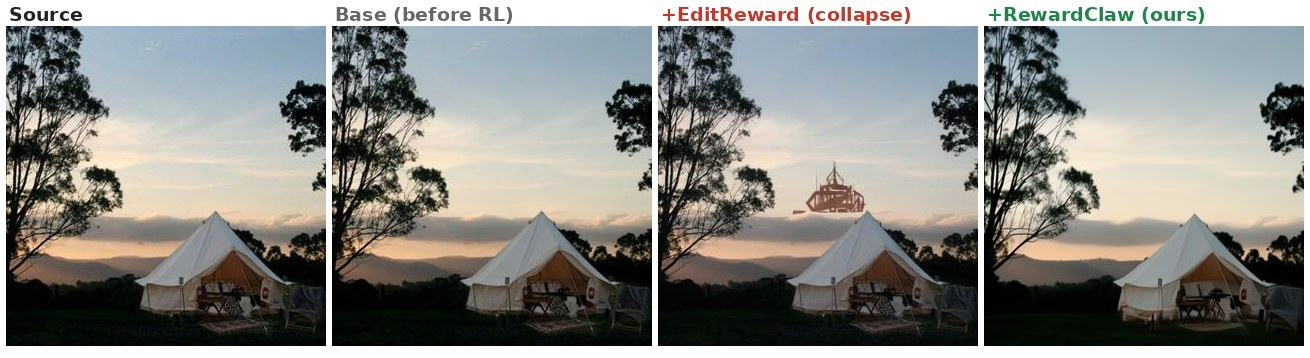
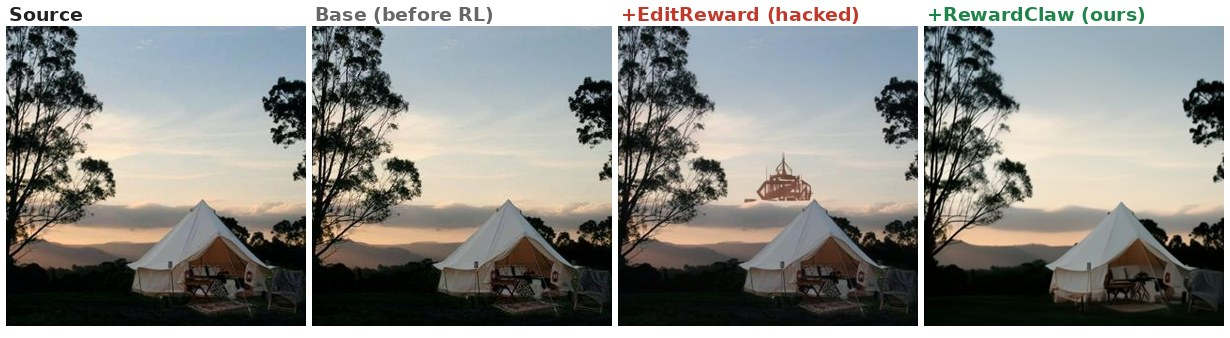
Base-verified reward-hacking cases with clear explanation

diff --git a/README.md b/README.md
@@ -1,49 +1,61 @@
-# Qualitative Comparison: Reward Hacking in RL Fine-Tuning
+# Reward Hacking in RL Fine-Tuning: EditReward vs RewardClaw
 
-FlowGRPO RL fine-tuning of **FLUX.2-klein-base-4B** on ImgEdit-Bench, comparing two reward models: **EditReward** vs **RewardClaw** (ours).
+We RL-fine-tune the image editor **FLUX.2-klein-base-4B** with FlowGRPO, using two different reward models as the training signal: a trained reward model **EditReward**, and our **RewardClaw**. This page shows that **training with EditReward induces reward hacking** — the editor learns to add hallucinated or exaggerated content that inflates the reward but is not faithful to the instruction — whereas **RewardClaw does not**.
 
-On the held-out ImgEdit-Bench, **RewardClaw** improves **6/9** edit categories (Overall 3.32->3.52); **EditReward** improves 5/9 and degrades 4/9 (Overall 3.32->3.45). The **Base (before RL)** column shows the model is well-behaved before RL: the failures below are introduced by RL with the EditReward signal (reward hacking), while RewardClaw stays faithful.
+## How to read each example
+Every row has four panels, left to right:
 
-Each row: **Source | Base (before RL) | +RL (EditReward) | +RL (RewardClaw, ours)**.
+| Panel | Meaning |
+| --- | --- |
+| **Source** | the input image to be edited |
+| **Base (before RL)** | the editor **before any RL** — the control. It is well-behaved here. |
+| **+EditReward (hacked)** | the editor after RL with the **EditReward** signal |
+| **+RewardClaw (ours)** | the editor after RL with **RewardClaw** |
 
-**1. [background]** Change the traditional embroidered dress in the picture from a wedding setting to a casual garden setting.
+**The Base column is the key control:** because Base is faithful, any new hallucination/artifact in the *+EditReward* panel is **introduced by the RL training (reward hacking)**, not by the underlying editor. RewardClaw, trained on the same data with the same RL recipe, stays faithful.
 
-*EditReward hallucinates an entire extra person; Base & RewardClaw keep the subject.*
+## Aggregate result (held-out ImgEdit-Bench, GPT-4o judge, 737 samples)
+RewardClaw improves **6/9** edit categories (Overall **3.32 -> 3.52**); EditReward improves only **5/9** and **degrades 4/9** (Overall **3.32 -> 3.45**). Full per-category table is in the paper (Table 2).
 
-![case288](figures/288.jpg)
+## Qualitative reward-hacking cases
+### 1. [extract] Extract the chocolate bar sleigh with candy cane runners and teddy bear cookie rider from the image.
 
-**2. [style]** Transfer the image into a hand-sculpted claymation style.
-
-*EditReward inserts hallucinated figures and skips the clay style; RewardClaw cleanly claymates.*
-
-![case683](figures/683.jpg)
-
-**3. [style]** Transfer the image into a Lego-brick stop-motion diorama style.
-
-*EditReward scatters random Lego clutter without converting the scene; RewardClaw rebuilds it in Lego.*
-
-![case682](figures/682.jpg)
-
-**4. [extract]** Extract the chocolate bar sleigh with candy cane runners and teddy bear cookie rider from the image.
-
-*EditReward adds hallucinated decorations; RewardClaw extracts cleanly.*
+Base cleanly isolates the chocolate-bar sleigh. **EditReward hallucinates extra teddy-bear / candy clutter** next to it (content absent from Base) — gaming the reward. RewardClaw matches Base.
 
 ![case432](figures/432.jpg)
 
-**5. [extract]** Extract the architectural structure visible in the background of the image, including all visible buildings and structural elements, while maintaining the surrounding environmental context such as the sky and nearby terrain.
+### 2. [extract] Extract the architectural structure visible in the background of the image, including all visible buildings and structural elements, while maintaining the surrounding environmental context such as the sky and nearby terrain.
 
-*EditReward hallucinates a floating wireframe artifact; RewardClaw stays clean.*
+Base is clean. **EditReward hallucinates a floating wireframe structure in the sky** that exists in neither the source nor Base. RewardClaw stays clean.
 
 ![case406](figures/406.jpg)
 
-**6. [add]** Add a set of colorful beach towels hanging over the railing on the right side of the pier.
+### 3. [extract] Extract the animals present in the image.
 
-*EditReward floats the towels in the water; RewardClaw places them on the railing.*
+Base shows one clean bird. **EditReward hallucinates a second, distorted bird** behind the target. RewardClaw keeps the single bird.
 
-![case35](figures/35.jpg)
+![case364](figures/364.jpg)
 
-**7. [remove]** Remove the person in the image who is standing next to the fence by the railway track.
+### 4. [replace] Replace the singer in the image with a person holding a colorful balloon.
 
-*EditReward leaves the person in (edit ignored); RewardClaw removes it cleanly.*
+Base is faithful to the singer. **EditReward hallucinates a large floating balloon/orb** in the upper-left. RewardClaw stays clean.
 
-![case473](figures/473.jpg)
+![case543](figures/543.jpg)
+
+### 5. [add] Add a person walking in the foreground near the broken wooden fence, dressed in winter clothing.
+
+Base keeps the painting's style. **EditReward inserts an oversized, out-of-style dark figure**; RewardClaw adds a small, proportionate person that fits the scene.
+
+![case100](figures/100.jpg)
+
+### 6. [adjust] Change the color of the house's front door to navy blue.
+
+The instruction recolors only the front door. **EditReward floods a large area of the house siding blue** (massive over-application); RewardClaw recolors only the targeted region.
+
+![case1118](figures/1118.jpg)
+
+### 7. [replace] Replace the man in the image with a snowman sitting in the same pose, surrounded by the snowy garden environment.
+
+Base produces a clean snowman. **EditReward leaves red facial artifacts and a half-replaced body**; RewardClaw produces a clean, coherent snowman.
+
+![case553](figures/553.jpg)